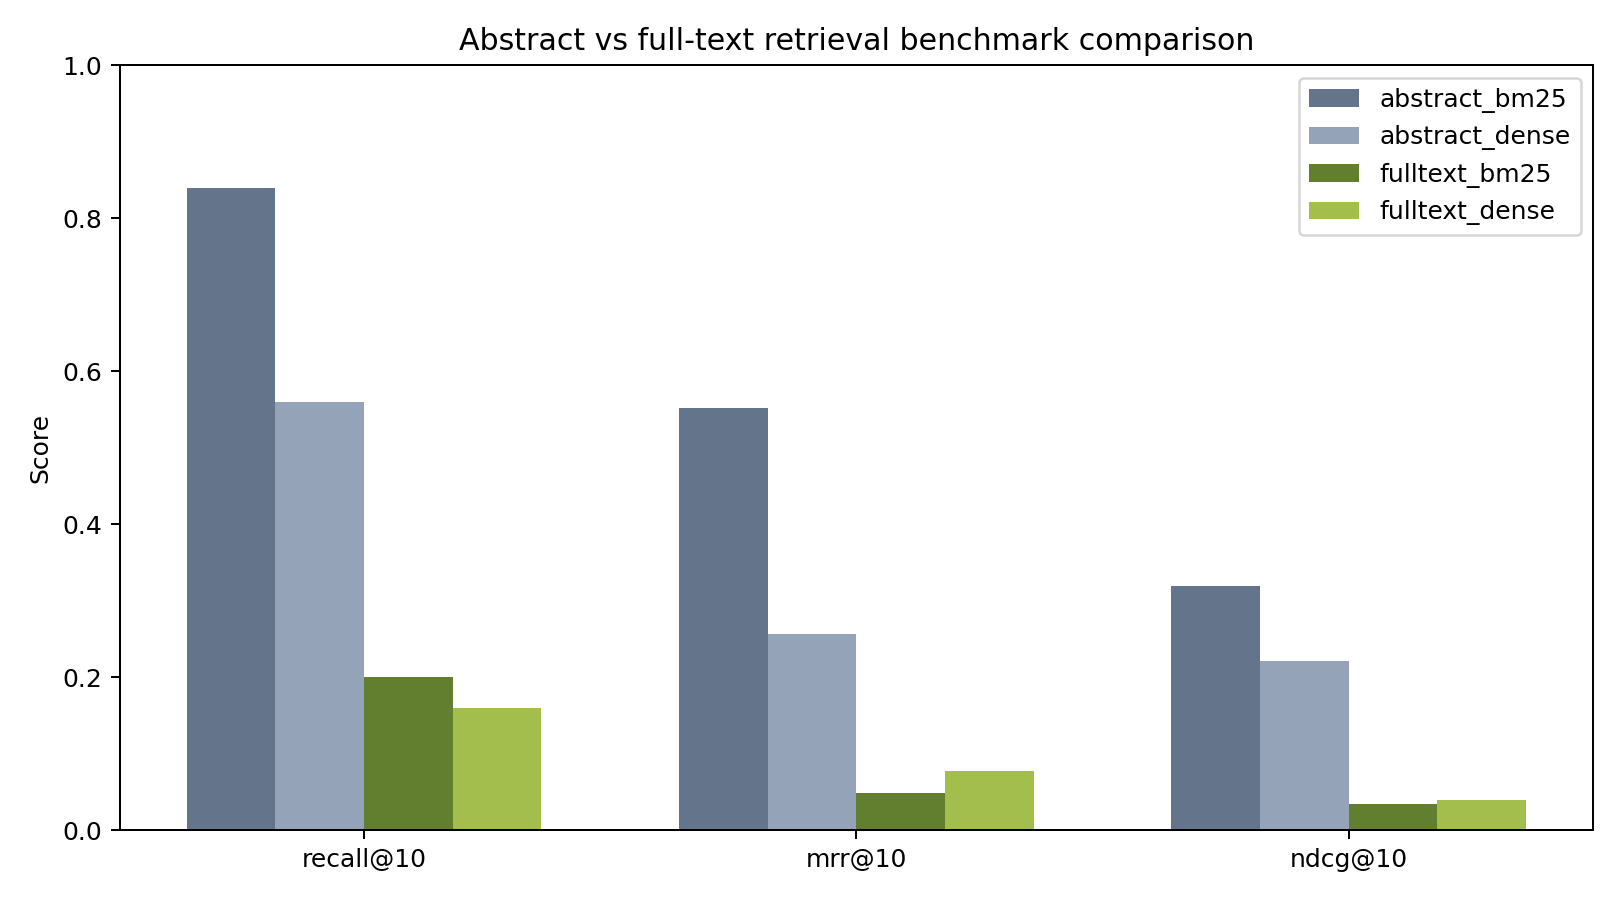
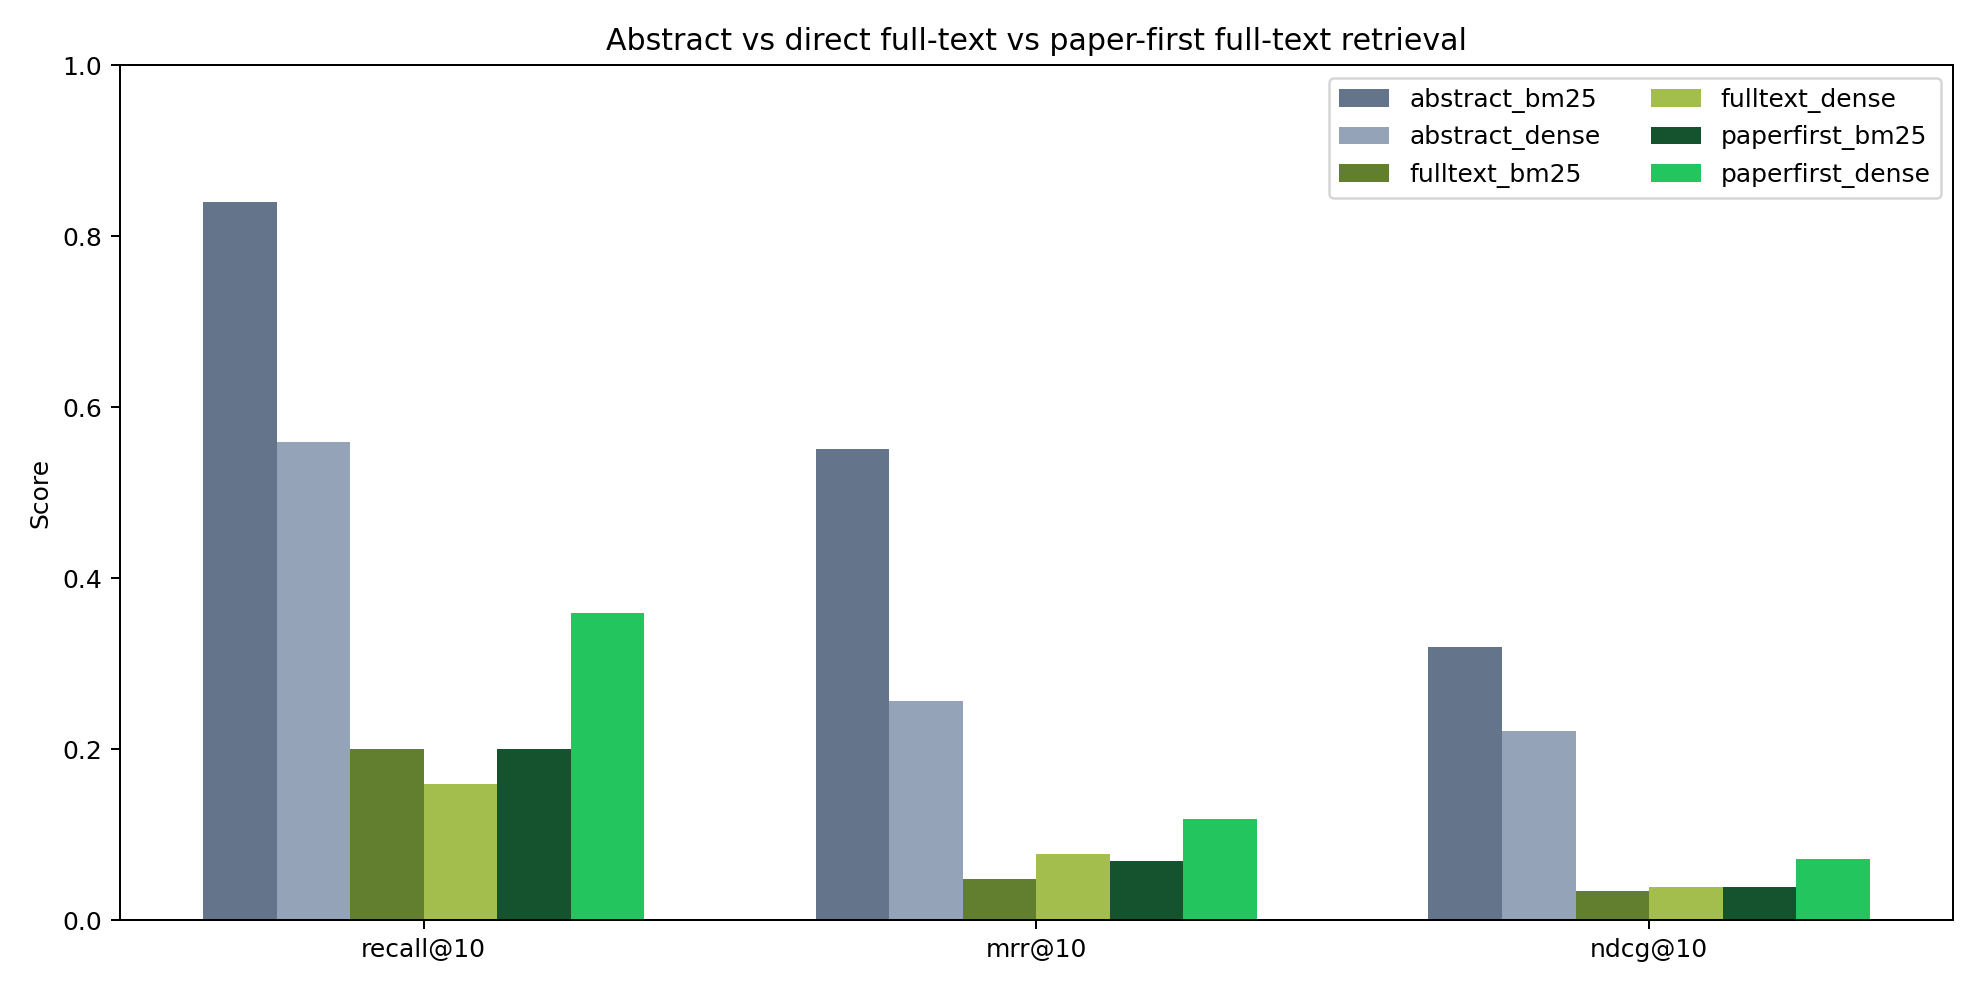
Add paper-first full-text retrieval baseline

diff --git a/src/fmap/retrieval/paper_first.py b/src/fmap/retrieval/paper_first.py
@@ -1,0 +1,89 @@
+from __future__ import annotations
+
+from dataclasses import dataclass
+
+import numpy as np
+import pandas as pd
+from sentence_transformers import SentenceTransformer
+from sklearn.feature_extraction.text import TfidfVectorizer
+from sklearn.metrics.pairwise import cosine_similarity
+
+
+@dataclass
+class PaperFirstConfig:
+    paper_top_k: int = 5
+    final_top_k: int = 10
+
+
+class PaperFirstBM25Retriever:
+    def __init__(self, config: PaperFirstConfig | None = None) -> None:
+        self.config = config or PaperFirstConfig()
+        self.paper_vectorizer = TfidfVectorizer(stop_words="english", ngram_range=(1, 2), sublinear_tf=True)
+        self.chunk_vectorizer = TfidfVectorizer(stop_words="english", ngram_range=(1, 2), sublinear_tf=True)
+        self.paper_matrix = None
+        self.chunk_matrix = None
+        self.paper_ids: list[str] = []
+        self.chunk_ids: list[str] = []
+        self.chunk_paper_ids: list[str] = []
+
+    def fit(self, chunks_df: pd.DataFrame) -> None:
+        papers = chunks_df.groupby("paper_id").agg({"title": "first", "chunk_text": lambda s: " ".join(s.astype(str).tolist())}).reset_index()
+        paper_texts = (papers["title"].fillna("") + " " + papers["chunk_text"].fillna("")).tolist()
+        self.paper_matrix = self.paper_vectorizer.fit_transform(paper_texts)
+        self.paper_ids = papers["paper_id"].tolist()
+
+        chunk_texts = chunks_df["chunk_text"].fillna("").astype(str).tolist()
+        self.chunk_matrix = self.chunk_vectorizer.fit_transform(chunk_texts)
+        self.chunk_ids = chunks_df["chunk_id"].tolist()
+        self.chunk_paper_ids = chunks_df["paper_id"].astype(str).tolist()
+
+    def search(self, query: str, top_k: int = 10) -> tuple[list[str], list[float]]:
+        if self.paper_matrix is None or self.chunk_matrix is None:
+            raise RuntimeError("Retriever has not been fit.")
+        q_paper = self.paper_vectorizer.transform([query])
+        paper_scores = cosine_similarity(q_paper, self.paper_matrix).ravel()
+        paper_order = np.argsort(-paper_scores)[: self.config.paper_top_k]
+        allowed_papers = {self.paper_ids[i] for i in paper_order}
+
+        q_chunk = self.chunk_vectorizer.transform([query])
+        chunk_scores = cosine_similarity(q_chunk, self.chunk_matrix).ravel()
+        masked = [(cid, pid, float(score)) for cid, pid, score in zip(self.chunk_ids, self.chunk_paper_ids, chunk_scores) if pid in allowed_papers]
+        masked.sort(key=lambda x: x[2], reverse=True)
+        masked = masked[:top_k]
+        return [m[0] for m in masked], [m[2] for m in masked]
+
+
+class PaperFirstDenseRetriever:
+    def __init__(self, config: PaperFirstConfig | None = None, model_name: str = "sentence-transformers/all-MiniLM-L6-v2") -> None:
+        self.config = config or PaperFirstConfig()
+        self.model = SentenceTransformer(model_name)
+        self.paper_embeddings: np.ndarray | None = None
+        self.chunk_embeddings: np.ndarray | None = None
+        self.paper_ids: list[str] = []
+        self.chunk_ids: list[str] = []
+        self.chunk_paper_ids: list[str] = []
+
+    def fit(self, chunks_df: pd.DataFrame) -> None:
+        papers = chunks_df.groupby("paper_id").agg({"title": "first", "chunk_text": lambda s: " ".join(s.astype(str).tolist())}).reset_index()
+        paper_texts = (papers["title"].fillna("") + " " + papers["chunk_text"].fillna("")).tolist()
+        self.paper_embeddings = np.asarray(self.model.encode(paper_texts, convert_to_numpy=True, normalize_embeddings=True, show_progress_bar=False))
+        self.paper_ids = papers["paper_id"].tolist()
+
+        chunk_texts = chunks_df["chunk_text"].fillna("").astype(str).tolist()
+        self.chunk_embeddings = np.asarray(self.model.encode(chunk_texts, convert_to_numpy=True, normalize_embeddings=True, show_progress_bar=False))
+        self.chunk_ids = chunks_df["chunk_id"].tolist()
+        self.chunk_paper_ids = chunks_df["paper_id"].astype(str).tolist()
+
+    def search(self, query: str, top_k: int = 10) -> tuple[list[str], list[float]]:
+        if self.paper_embeddings is None or self.chunk_embeddings is None:
+            raise RuntimeError("Retriever has not been fit.")
+        query_embedding = np.asarray(self.model.encode([query], convert_to_numpy=True, normalize_embeddings=True, show_progress_bar=False))[0]
+        paper_scores = self.paper_embeddings @ query_embedding
+        paper_order = np.argsort(-paper_scores)[: self.config.paper_top_k]
+        allowed_papers = {self.paper_ids[i] for i in paper_order}
+
+        chunk_scores = self.chunk_embeddings @ query_embedding
+        masked = [(cid, pid, float(score)) for cid, pid, score in zip(self.chunk_ids, self.chunk_paper_ids, chunk_scores) if pid in allowed_papers]
+        masked.sort(key=lambda x: x[2], reverse=True)
+        masked = masked[:top_k]
+        return [m[0] for m in masked], [m[2] for m in masked]

diff --git a/compare_chunk_retrieval.py b/compare_chunk_retrieval.py
@@ -9,6 +9,7 @@ import pandas as pd
 
 from src.fmap.evaluation.retrieval_eval import evaluate_benchmark_retrieval
 from src.fmap.retrieval.baselines import BM25LikeRetriever, DenseChunkRetriever
+from src.fmap.retrieval.paper_first import PaperFirstBM25Retriever, PaperFirstDenseRetriever
 
 ROOT = Path(__file__).resolve().parent
 QUESTIONS_PATH = ROOT / "benchmarks" / "astrophysics_qa" / "questions.linked.json"
@@ -18,7 +19,7 @@ OUT_DIR = ROOT / "outputs" / "metrics"
 FIG_DIR = ROOT / "outputs" / "figures"
 
 
-def run_eval(chunks_path: Path, label: str) -> dict:
+def run_eval(chunks_path: Path, label: str, include_paper_first: bool = False) -> dict:
     chunks = pd.read_csv(chunks_path)
     with open(QUESTIONS_PATH, "r", encoding="utf-8") as f:
         questions = pd.DataFrame(json.load(f))
@@ -31,35 +32,51 @@ def run_eval(chunks_path: Path, label: str) -> dict:
     dense.fit(chunks)
     dense_results = evaluate_benchmark_retrieval(questions, dense, top_ks=(1, 3, 5, 10))
 
-    return {
+    result = {
         "label": label,
         "bm25": bm25_results["aggregate"],
         "dense": dense_results["aggregate"],
     }
+
+    if include_paper_first:
+        paper_first_bm25 = PaperFirstBM25Retriever()
+        paper_first_bm25.fit(chunks)
+        pf_bm25_results = evaluate_benchmark_retrieval(questions, paper_first_bm25, top_ks=(1, 3, 5, 10))
+
+        paper_first_dense = PaperFirstDenseRetriever()
+        paper_first_dense.fit(chunks)
+        pf_dense_results = evaluate_benchmark_retrieval(questions, paper_first_dense, top_ks=(1, 3, 5, 10))
+
+        result["paper_first_bm25"] = pf_bm25_results["aggregate"]
+        result["paper_first_dense"] = pf_dense_results["aggregate"]
+
+    return result
 
 
 def make_plot(results: list[dict]) -> Path:
     FIG_DIR.mkdir(parents=True, exist_ok=True)
     metrics = ["recall@10", "mrr@10", "ndcg@10"]
     x = np.arange(len(metrics))
-    width = 0.18
-    fig, ax = plt.subplots(figsize=(9, 5))
+    width = 0.12
+    fig, ax = plt.subplots(figsize=(11, 5.5))
 
     series = [
         ("abstract_bm25", [results[0]["bm25"][m] for m in metrics], "#64748b"),
         ("abstract_dense", [results[0]["dense"][m] for m in metrics], "#94a3b8"),
         ("fulltext_bm25", [results[1]["bm25"][m] for m in metrics], "#627f2f"),
         ("fulltext_dense", [results[1]["dense"][m] for m in metrics], "#a3be4c"),
+        ("paperfirst_bm25", [results[1]["paper_first_bm25"][m] for m in metrics], "#14532d"),
+        ("paperfirst_dense", [results[1]["paper_first_dense"][m] for m in metrics], "#22c55e"),
     ]
     for idx, (name, vals, color) in enumerate(series):
-        ax.bar(x + (idx - 1.5) * width, vals, width, label=name, color=color)
+        ax.bar(x + (idx - 2.5) * width, vals, width, label=name, color=color)
 
     ax.set_xticks(x)
     ax.set_xticklabels(metrics)
     ax.set_ylim(0, 1.0)
     ax.set_ylabel("Score")
-    ax.set_title("Abstract vs full-text retrieval benchmark comparison")
-    ax.legend()
+    ax.set_title("Abstract vs direct full-text vs paper-first full-text retrieval")
+    ax.legend(ncol=2)
     fig.tight_layout()
     out = FIG_DIR / "chunk_retrieval_comparison.png"
     fig.savefig(out, dpi=180)
@@ -70,7 +87,7 @@ def make_plot(results: list[dict]) -> Path:
 def main() -> None:
     results = [
         run_eval(ABSTRACT_CHUNKS, "abstract_chunks"),
-        run_eval(FULLTEXT_CHUNKS, "fulltext_chunks"),
+        run_eval(FULLTEXT_CHUNKS, "fulltext_chunks", include_paper_first=True),
     ]
     OUT_DIR.mkdir(parents=True, exist_ok=True)
     with open(OUT_DIR / "chunk_retrieval_comparison.json", "w", encoding="utf-8") as f:
